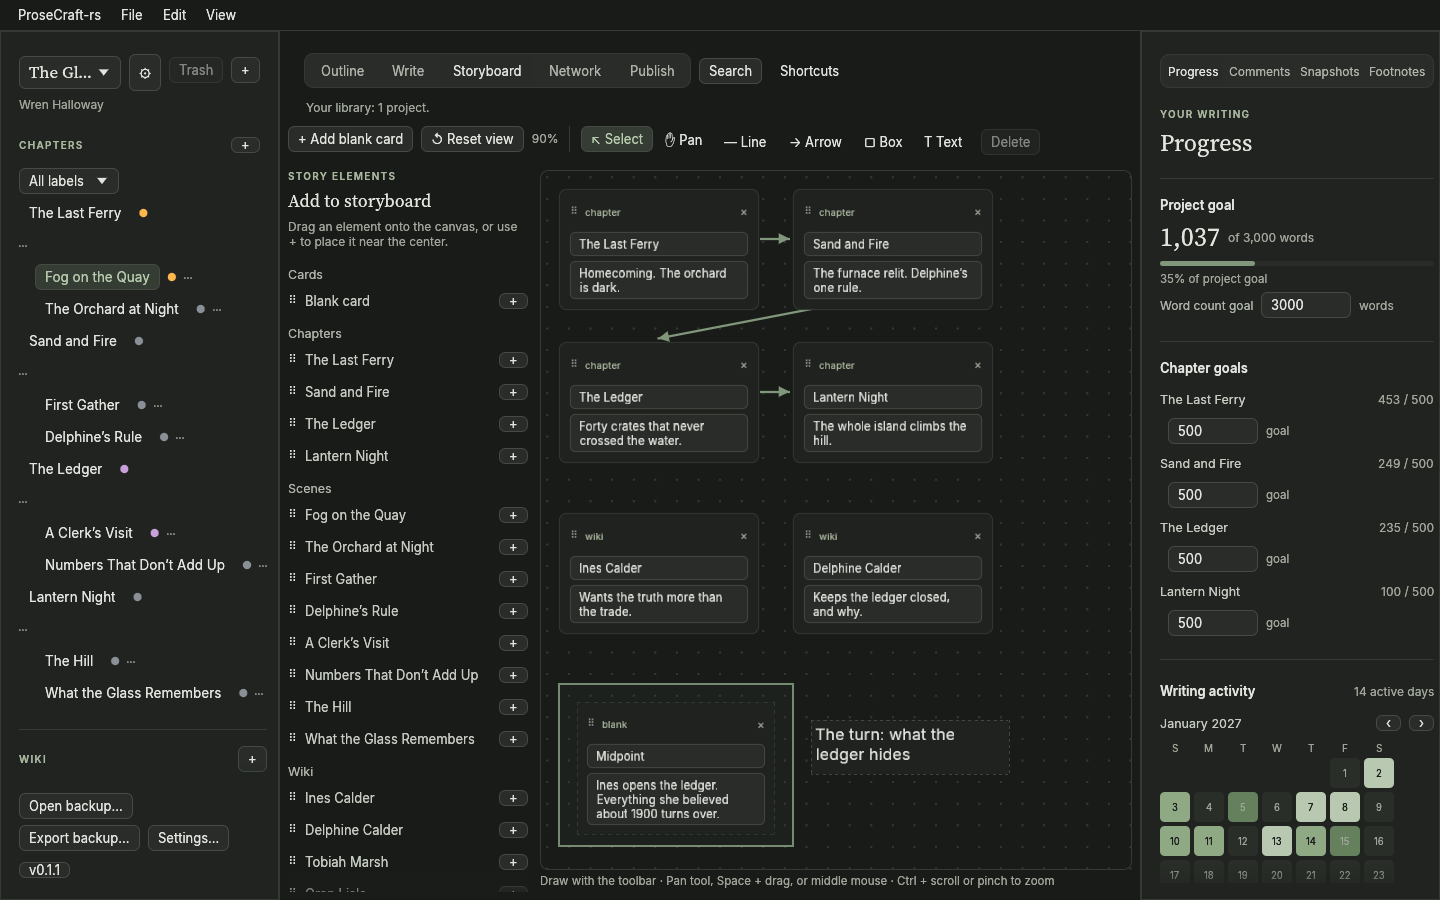
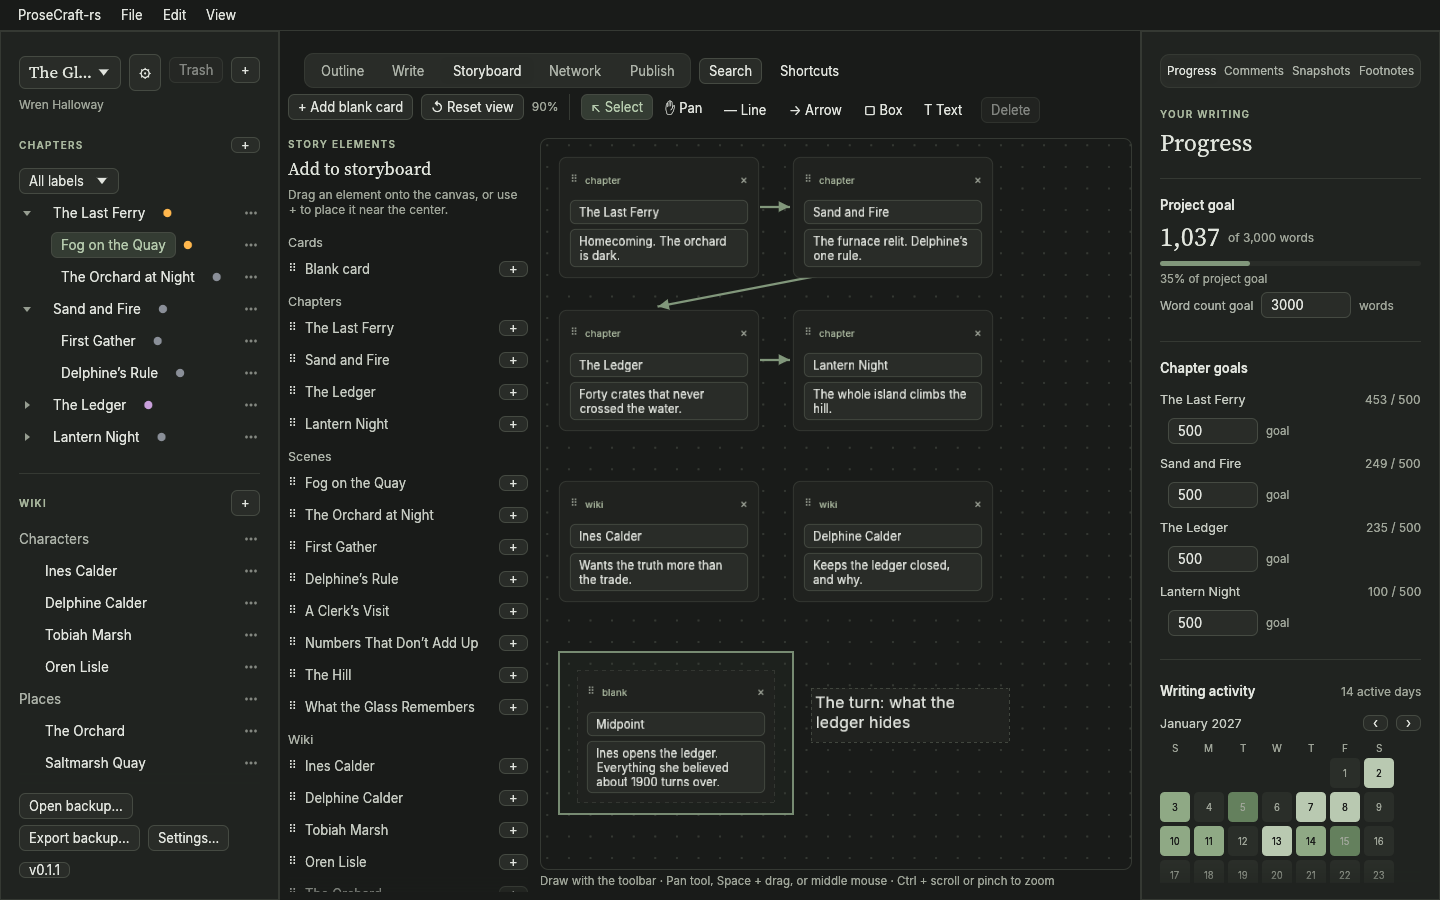
Re-render the screenshots after the UI polish
Every chapter now starts open, so the Write shot folds the last two to
keep the Wiki's places in view; the status line is gone from the shots
since it no longer lingers. Re-layout still steps to the third
arrangement, with the comment saying why. The design document describes
the chapter chevron, the transient status line, the character card
panel and how the network shortens names and moves relation labels.

diff --git a/crates/ui-egui/tests/shots.rs b/crates/ui-egui/tests/shots.rs
@@ -132,9 +132,16 @@ fn shots() {
     harness.run();
     let h = &mut harness;
 
-    // The hero: a scene in the Write view, with its comments.
+    // The hero: a scene in the Write view, with its comments. Every chapter starts open; the last
+    // two are folded so the binder has room for the Wiki's places as well as its characters (the
+    // fold lasts the session, so every later shot has it too).
     tab(h, "Write");
     open(h, "Fog on the Quay");
+    for chapter in ["The Ledger", "Lantern Night"] {
+        h.get_by_role_and_label(Role::Button, &format!("Scenes of {chapter}"))
+            .click();
+        h.run();
+    }
     tab(h, "Comments");
     save(h, &dir, "write");
 
@@ -155,7 +162,9 @@ fn shots() {
     tab(h, "Network");
     h.get_by_label("Hide progress sidebar").click();
     h.run();
-    // Re-layout steps the layout's seed: the third arrangement keeps every label clear.
+    // Re-layout steps the layout's seed and refits the view. In the first arrangement the
+    // Orchard's edge runs through its name and Tobiah Marsh's is cut short; the third keeps every
+    // name whole except Saltmarsh Quay's, which is too long for any of them.
     for _ in 0..2 {
         h.get_by_label("↺ Re-layout").click();
         h.run_steps(8);

diff --git a/design/README.md b/design/README.md
@@ -125,11 +125,13 @@ The window is a menu bar over three columns, managed by `craft_ui`'s pane host (
 - **Menu bar** (`app_menu.rs`): ProseCraft-rs, File, Edit, View, drawn by `craft-menu`; on macOS the native menu.
 - **Binder** (left pane, docked, 280 wide, `binder.rs`): the project picker, its settings gear, Trash and "+",
   the author; CHAPTERS with the label filter and the chapter and scene rows (each with its label dot and a "⋯"
-  menu, drag to reorder); WIKI with folders, pages, files and links; at the foot Open backup…, Export backup…,
+  menu, drag to reorder; every chapter starts open, and its chevron folds its scenes away for the session);
+  WIKI with folders, pages, files and links; at the foot Open backup…, Export backup…,
   Settings… and the version.
 - **Page** (centre, `views.rs`): the view switch (Outline, Write, Storyboard, Timeline when it is on, Network,
-  Publish) with Search, the Chapters and Progress pane toggles, Shortcuts and, in Write, Split; the status line
-  under it; then the view. Prose views keep to a centred column at most 720 wide (`COLUMN`).
+  Publish) with Search, the Chapters and Progress pane toggles, Shortcuts and, in Write, Split; under it the
+  status line while it has something to say (a note goes after eight seconds or with the next change of view
+  or selection, an error with that change; a read-only notice stays); then the view. Prose views keep to a centred column at most 720 wide (`COLUMN`).
 - **Sidebar** (right pane, docked, 300 wide, `sidebar.rs`): the tabs Progress (project goal, chapter goals,
   writing calendar), Comments, Snapshots and Footnotes.
 
@@ -154,7 +156,8 @@ view switch.
 Settings, the starter for a new project, project settings, labels, sources, the citation picker, the footnote
 editor, find and replace, and the imports are egui windows over the page (`window_fill` = `surface_raised`,
 1 px `border`, radius 10). Settings is a list of categories on the left (General, Writing, Proofreading, Data and
-sync, About) and the category's groups on the right. The character card is a window in the Network view.
+sync, About) and the category's groups on the right. The character card, opened from the Network view, is
+ProseCraft's panel at the window's right: 380 wide, 12 from the top, right and bottom, its sheet scrolling inside.
 
 ## Components
 
@@ -173,10 +176,12 @@ sync, About) and the category's groups on the right. The character card is a win
 - **Goal bar** (`widgets::goal_bar`): 5 high, `control_bg` track, `accent` fill; role ProgressIndicator with
   "N% of goal".
 - **Chips:** the label dot in the binder (the label's colour), relation type chips in the network.
-- **The graph** (`relation_graph.rs`): pages as circles with their initials and names under them, declared
-  relations as arrows coloured by type (family `accent`, friend `success`, rival `danger`, love `quote`, mentor
-  `link`, employer `warning`) with their label at the middle, suggestions as dashed lines in `text_faint` with
-  the number of shared scenes; drag, scroll or pinch to zoom, a minimap in the corner.
+- **The graph** (`relation_graph.rs`): pages as circles with their initials and names under them (a name is
+  shortened to the room beside its neighbours), declared relations as arrows coloured by type (family `accent`,
+  friend `success`, rival `danger`, love `quote`, mentor `link`, employer `warning`) with their label near the
+  middle, moved clear of pages and names or left out where there is no room; suggestions as dashed lines in
+  `text_faint` with the number of shared scenes. Names and labels sit on a backing like ProseCraft's halo. Drag,
+  scroll or pinch to zoom, Fit and Re-layout frame the whole graph, a minimap in the corner.
 - **Writing calendar** (`sidebar.rs` `activity`): a month of day cells shaded through `heat`.
 
 ## Accessibility

diff --git a/README.md b/README.md
@@ -34,7 +34,7 @@
 <br>
 
 <p align="center">
-  <img src="docs/screenshots/write.png" alt="The Write view in the dark theme: the binder of chapters and scenes on the left, the opening scene of an invented novel, The Glass Orchard, in a serif column with two passages highlighted for comments and character names marked, and the Comments sidebar on the right with an editor's two notes" width="100%">
+  <img src="docs/screenshots/write.png" alt="The Write view in the dark theme: the binder on the left with the opening chapters' scenes, two chapters folded and the wiki's characters and places, the opening scene of an invented novel, The Glass Orchard, in a serif column with two passages highlighted for comments and character names marked, and the Comments sidebar on the right with an editor's two notes" width="100%">
   <br><sub>Writing a scene, with an editor's comments beside it. The novel in every picture, <i>The Glass Orchard</i>, was made up for them.</sub>
 </p>
 
